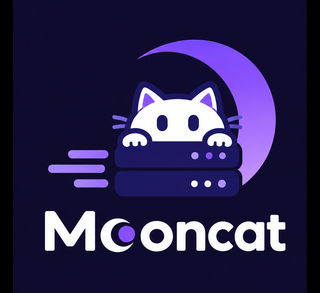
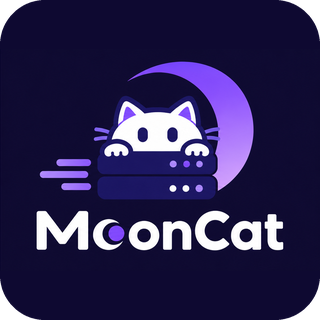
fix(mooncat): the tenth visit gets Mooncat, its own cut, and the word that goes with it.
The mark had two spellings where the art has three. `Mc.png` is the easter egg —
`Mooncat`, capital M, lowercase c — and the readme says it replaces whichever
logo is standing about one visit in ten; the standing cuts are `mooncat` for the
English pages and `MoonCat` for the Chinese ones. The page had been swapping to
the *other language's* mark instead, so a Chinese visit that tripped the egg got
the English cut and an English visit got the Chinese one, and neither said what
it was showing.

There are six cuts now, and each page names its own: `data-light` and
`data-dark` for the standing mark, `data-egg-light` and `data-egg-dark` for the
egg, with `data-word` and `data-egg-word` beside them. The word follows whatever
is on screen, so `Mooncat` appears next to the egg and nowhere else.

The Chinese night tile was the egg's tile — `icon-alt.png` had been cut from
`Mc.png` — so the Chinese pages showed `Mooncat` after dark and `MoonCat` by
day. It is cut from `MC-.png` now, and squared up: that export runs past the
bottom of the canvas, so the art is placed on a navy square the size of its own
width and the corners are rounded there, in the same shape as the English tile.

The daylight cuts are split in two: `icon-*-light.png` is the mark alone, for
the 54px slot beside the word, and `lockup-*-light.png` is the mark over the
wordmark, for the hero where it has room to be read. Before this the 54px slot
[…]

diff --git a/docs/assets/site.js b/docs/assets/site.js
@@ -227,29 +227,26 @@
   }
 
   /* ---- the mark --------------------------------------------------------
-     There is a cut for daylight and one for the dark theme, and a cut for each
-     language. About one visit in ten the other language turns up, and the page
-     never says so. */
+     Four cuts of the mark: daylight and night, in three spellings — `mooncat`
+     for the English pages, `MoonCat` for the Chinese ones, and `Mooncat` for
+     the visit that comes in one time in ten. The night cuts are the navy
+     tiles; the day cuts are the same art on nothing at all. */
 
   var marks = document.querySelectorAll("img[data-dark]");
   if (marks.length) {
     var swapped = Math.random() < 0.1;
     var syncLogo = function () {
       var theme = root.getAttribute("data-theme") || system();
-      var key = "data-" + (swapped ? "alt-" : "") + theme;
+      var key = "data-" + (swapped ? "egg-" : "") + theme;
       marks.forEach(function (img) {
         var src = img.getAttribute(key);
         if (src && img.getAttribute("src") !== src) {
           img.src = src;
         }
-        if (swapped && img.hasAttribute("data-alt-alt")) {
-          img.alt = img.getAttribute("data-alt-alt");
-        }
       });
-      // The word beside the mark says what the mark says: `mooncat` under one
-      // cut, `MoonCat` under the other.
+      // The word beside the mark says what the mark says.
       document.querySelectorAll("[data-word]").forEach(function (word) {
-        var said = word.getAttribute(swapped ? "data-alt-word" : "data-word");
+        var said = word.getAttribute(swapped ? "data-egg-word" : "data-word");
         if (said && word.textContent !== said) {
           word.textContent = said;
         }

diff --git a/docs/zh/index.html b/docs/zh/index.html
@@ -17,9 +17,9 @@
   <div class="wrap">
     <div class="head">
       <a class="brand" href="./index.html">
-        <img id="logo" src="../assets/icon-alt-light.png" data-light="../assets/icon-alt-light.png" data-dark="../assets/icon-alt.png" data-alt-light="../assets/icon-light.png" data-alt-dark="../assets/icon.png" data-alt-alt="mooncat" alt="MoonCat" width="54" height="49">
+        <img id="logo" src="../assets/icon-alt-light.png" data-light="../assets/icon-alt-light.png" data-dark="../assets/icon-alt.png" data-egg-light="../assets/icon-egg-light.png" data-egg-dark="../assets/icon-egg.png" alt="MoonCat" width="54" height="49">
         <span class="name">
-          <b data-word="MoonCat" data-alt-word="mooncat">MoonCat</b>
+          <b data-word="MoonCat" data-egg-word="Mooncat">MoonCat</b>
           <span>MoonBit 的 ASGI 3.0 服务器</span>
         </span>
       </a>
@@ -88,7 +88,7 @@
         </div>
       </div>
       <div class="shot">
-        <img src="../assets/lockup-alt-light.png" data-light="../assets/lockup-alt-light.png" data-dark="../assets/icon-alt.png" data-alt-light="../assets/lockup-light.png" data-alt-dark="../assets/icon.png" alt="mooncat 的标志：一轮新月前，一只猫趴在两条服务器横杆上张望。" width="240" height="220">
+        <img src="../assets/lockup-alt-light.png" data-light="../assets/lockup-alt-light.png" data-dark="../assets/icon-alt.png" data-egg-light="../assets/lockup-egg-light.png" data-egg-dark="../assets/icon-egg.png" alt="mooncat 的标志：一轮新月前，一只猫趴在两条服务器横杆上张望。" width="240" height="220">
       </div>
     </section>
 

diff --git a/docs/index.html b/docs/index.html
@@ -17,9 +17,9 @@
   <div class="wrap">
     <div class="head">
       <a class="brand" href="./index.html">
-        <img id="logo" src="assets/icon-light.png" data-light="assets/icon-light.png" data-dark="assets/icon.png" data-alt-light="assets/icon-alt-light.png" data-alt-dark="assets/icon-alt.png" data-alt-alt="MoonCat" alt="mooncat" width="54" height="49">
+        <img id="logo" src="assets/icon-light.png" data-light="assets/icon-light.png" data-dark="assets/icon.png" data-egg-light="assets/icon-egg-light.png" data-egg-dark="assets/icon-egg.png" alt="mooncat" width="54" height="49">
         <span class="name">
-          <b data-word="mooncat" data-alt-word="MoonCat">mooncat</b>
+          <b data-word="mooncat" data-egg-word="Mooncat">mooncat</b>
           <span>An ASGI 3.0 server for MoonBit</span>
         </span>
       </a>
@@ -88,7 +88,7 @@
         </div>
       </div>
       <div class="shot">
-        <img src="assets/lockup-light.png" data-light="assets/lockup-light.png" data-dark="assets/icon.png" data-alt-light="assets/lockup-alt-light.png" data-alt-dark="assets/icon-alt.png" alt="The mooncat mark: a cat peering over two server bars, against a crescent moon." width="240" height="220">
+        <img src="assets/lockup-light.png" data-light="assets/lockup-light.png" data-dark="assets/icon.png" data-egg-light="assets/lockup-egg-light.png" data-egg-dark="assets/icon-egg.png" alt="The mooncat mark: a cat peering over two server bars, against a crescent moon." width="240" height="220">
       </div>
     </section>
 

diff --git a/docs/zh/api.html b/docs/zh/api.html
@@ -17,9 +17,9 @@
   <div class="wrap">
     <div class="head">
       <a class="brand" href="./index.html">
-        <img id="logo" src="../assets/icon-alt-light.png" data-light="../assets/icon-alt-light.png" data-dark="../assets/icon-alt.png" data-alt-light="../assets/icon-light.png" data-alt-dark="../assets/icon.png" data-alt-alt="mooncat" alt="MoonCat" width="54" height="49">
+        <img id="logo" src="../assets/icon-alt-light.png" data-light="../assets/icon-alt-light.png" data-dark="../assets/icon-alt.png" data-egg-light="../assets/icon-egg-light.png" data-egg-dark="../assets/icon-egg.png" alt="MoonCat" width="54" height="49">
         <span class="name">
-          <b data-word="MoonCat" data-alt-word="mooncat">MoonCat</b>
+          <b data-word="MoonCat" data-egg-word="Mooncat">MoonCat</b>
           <span>MoonBit 的 ASGI 3.0 服务器</span>
         </span>
       </a>

diff --git a/docs/zh/guide.html b/docs/zh/guide.html
@@ -17,9 +17,9 @@
   <div class="wrap">
     <div class="head">
       <a class="brand" href="./index.html">
-        <img id="logo" src="../assets/icon-alt-light.png" data-light="../assets/icon-alt-light.png" data-dark="../assets/icon-alt.png" data-alt-light="../assets/icon-light.png" data-alt-dark="../assets/icon.png" data-alt-alt="mooncat" alt="MoonCat" width="54" height="49">
+        <img id="logo" src="../assets/icon-alt-light.png" data-light="../assets/icon-alt-light.png" data-dark="../assets/icon-alt.png" data-egg-light="../assets/icon-egg-light.png" data-egg-dark="../assets/icon-egg.png" alt="MoonCat" width="54" height="49">
         <span class="name">
-          <b data-word="MoonCat" data-alt-word="mooncat">MoonCat</b>
+          <b data-word="MoonCat" data-egg-word="Mooncat">MoonCat</b>
           <span>MoonBit 的 ASGI 3.0 服务器</span>
         </span>
       </a>

diff --git a/docs/zh/playground.html b/docs/zh/playground.html
@@ -17,9 +17,9 @@
   <div class="wrap">
     <div class="head">
       <a class="brand" href="./index.html">
-        <img id="logo" src="../assets/icon-alt-light.png" data-light="../assets/icon-alt-light.png" data-dark="../assets/icon-alt.png" data-alt-light="../assets/icon-light.png" data-alt-dark="../assets/icon.png" data-alt-alt="mooncat" alt="MoonCat" width="54" height="49">
+        <img id="logo" src="../assets/icon-alt-light.png" data-light="../assets/icon-alt-light.png" data-dark="../assets/icon-alt.png" data-egg-light="../assets/icon-egg-light.png" data-egg-dark="../assets/icon-egg.png" alt="MoonCat" width="54" height="49">
         <span class="name">
-          <b data-word="MoonCat" data-alt-word="mooncat">MoonCat</b>
+          <b data-word="MoonCat" data-egg-word="Mooncat">MoonCat</b>
           <span>MoonBit 的 ASGI 3.0 服务器</span>
         </span>
       </a>

diff --git a/docs/api.html b/docs/api.html
@@ -17,9 +17,9 @@
   <div class="wrap">
     <div class="head">
       <a class="brand" href="./index.html">
-        <img id="logo" src="assets/icon-light.png" data-light="assets/icon-light.png" data-dark="assets/icon.png" data-alt-light="assets/icon-alt-light.png" data-alt-dark="assets/icon-alt.png" data-alt-alt="MoonCat" alt="mooncat" width="54" height="49">
+        <img id="logo" src="assets/icon-light.png" data-light="assets/icon-light.png" data-dark="assets/icon.png" data-egg-light="assets/icon-egg-light.png" data-egg-dark="assets/icon-egg.png" alt="mooncat" width="54" height="49">
         <span class="name">
-          <b data-word="mooncat" data-alt-word="MoonCat">mooncat</b>
+          <b data-word="mooncat" data-egg-word="Mooncat">mooncat</b>
           <span>An ASGI 3.0 server for MoonBit</span>
         </span>
       </a>

diff --git a/docs/guide.html b/docs/guide.html
@@ -17,9 +17,9 @@
   <div class="wrap">
     <div class="head">
       <a class="brand" href="./index.html">
-        <img id="logo" src="assets/icon-light.png" data-light="assets/icon-light.png" data-dark="assets/icon.png" data-alt-light="assets/icon-alt-light.png" data-alt-dark="assets/icon-alt.png" data-alt-alt="MoonCat" alt="mooncat" width="54" height="49">
+        <img id="logo" src="assets/icon-light.png" data-light="assets/icon-light.png" data-dark="assets/icon.png" data-egg-light="assets/icon-egg-light.png" data-egg-dark="assets/icon-egg.png" alt="mooncat" width="54" height="49">
         <span class="name">
-          <b data-word="mooncat" data-alt-word="MoonCat">mooncat</b>
+          <b data-word="mooncat" data-egg-word="Mooncat">mooncat</b>
           <span>An ASGI 3.0 server for MoonBit</span>
         </span>
       </a>

diff --git a/docs/playground.html b/docs/playground.html
@@ -17,9 +17,9 @@
   <div class="wrap">
     <div class="head">
       <a class="brand" href="./index.html">
-        <img id="logo" src="assets/icon-light.png" data-light="assets/icon-light.png" data-dark="assets/icon.png" data-alt-light="assets/icon-alt-light.png" data-alt-dark="assets/icon-alt.png" data-alt-alt="MoonCat" alt="mooncat" width="54" height="49">
+        <img id="logo" src="assets/icon-light.png" data-light="assets/icon-light.png" data-dark="assets/icon.png" data-egg-light="assets/icon-egg-light.png" data-egg-dark="assets/icon-egg.png" alt="mooncat" width="54" height="49">
         <span class="name">
-          <b data-word="mooncat" data-alt-word="MoonCat">mooncat</b>
+          <b data-word="mooncat" data-egg-word="Mooncat">mooncat</b>
           <span>An ASGI 3.0 server for MoonBit</span>
         </span>
       </a>

diff --git a/scripts/docs/check_docs.py b/scripts/docs/check_docs.py
@@ -204,6 +204,25 @@ def at_rule_blocks(text):
         yield match.group(1), match.end(), i
 
 
+def check_assets():
+    """Every file a page points at is a file: the marks come in six cuts and a
+    typo in one of them is a broken image nobody notices until a visitor does."""
+    seen = 0
+    for page in sorted(DOCS.rglob("*.html")):
+        if page.name.startswith("_"):
+            continue
+        text = page.read_text(encoding="utf-8")
+        for path in re.findall(
+                r'(?:src|href|data-[a-z-]+)="([^"#?:]+\.(?:png|js|css|ico|svg))"', text):
+            if path.startswith(("http", "//")):
+                continue
+            seen += 1
+            if not (page.parent / path).resolve().exists():
+                fail("%s points at %s, which is not there"
+                     % (page.relative_to(DOCS).as_posix(), path))
+    print("  assets: %d references, all present" % seen)
+
+
 def check_search():
     index = DOCS / "assets" / "search-index.js"
     if not index.exists():
@@ -250,6 +269,7 @@ def main():
     items = interfaces()
     check_api(items)
     check_pages()
+    check_assets()
     check_search()
     check_scrollbars()
     if FAILED:
